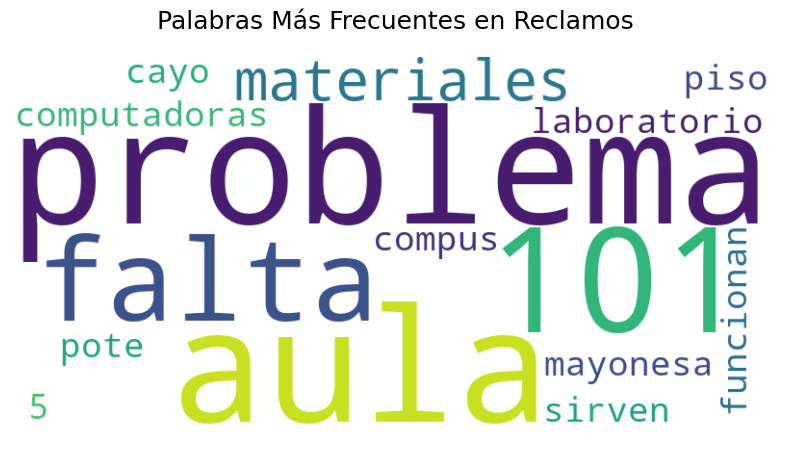
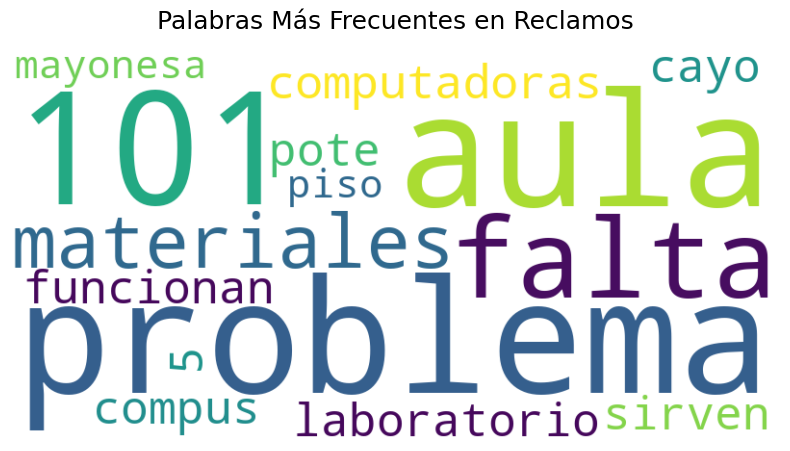
Add filtering functionality for claims by department and enhance UI in claims management templates

diff --git a/TrabajoPractico_3/proyecto_1/templates/mis_reclamos.html b/TrabajoPractico_3/proyecto_1/templates/mis_reclamos.html
@@ -1,41 +1,57 @@
 {% extends 'base.html' %}
 {% block title %}Mis Reclamos{% endblock %}
 {% block content %}
-    <div class="bg-white p-8 rounded-lg shadow-md w-full max-w-2xl mx-auto">
-        <h1 class="text-2xl font-bold mb-4">Mis Reclamos</h1>
+    <div class="bg-gray-50 p-8 rounded-xl shadow-lg w-full max-w-3xl mx-auto transition-all duration-300">
+        <h1 class="text-3xl font-bold text-gray-800 mb-6">Mis Reclamos</h1>
 
         <!-- Sección de Reclamos Creados -->
-        <h2 class="text-xl font-semibold mt-6 mb-2">Reclamos Creados</h2>
+        <h2 class="text-2xl font-semibold text-gray-700 mt-8 mb-4">Reclamos Creados</h2>
         {% if reclamos %}
             <ul class="space-y-4">
                 {% for reclamo in reclamos %}
-                    <li class="border p-4 rounded">
-                        <p><strong>Reclamo:</strong> {{ reclamo.contenido }}</p>
-                        <p><strong>Fecha:</strong> {{ reclamo.timestamp }}</p>
-                        <p><strong>Estado:</strong> {{ reclamo.estado }}</p>
-                        <p><strong>Departamento:</strong> {{ reclamo.departamento_id }}</p>
+                    <li class="border-l-4 border-blue-400 bg-white p-6 rounded-lg shadow-sm hover:shadow-md transition-shadow duration-200">
+                        <p><strong class="text-gray-800">Reclamo:</strong> {{ reclamo.contenido }}</p>
+                        <p><strong class="text-gray-800">Fecha:</strong> {{ reclamo.timestamp.strftime('%d/%m/%Y') }}</p>
+                        <p><strong class="text-gray-800">Estado:</strong> 
+                            <span class="inline-block px-2 py-1 text-sm rounded-full 
+                                {% if reclamo.estado == 'PENDIENTE' %}bg-yellow-100 text-yellow-800 px-3 py-1 rounded-full text-sm font-semibold mb-2
+                                {% elif reclamo.estado == 'EN_PROCESO' %}bg-blue-100 text-blue-800 px-3 py-1 rounded-full text-sm font-semibold mb-2
+                                {% elif reclamo.estado == 'RESUELTO' %}bg-green-100 text-green-800 px-3 py-1 rounded-full text-sm font-semibold mb-2
+                                {% else %}bg-gray-100 text-gray-800{% endif %}">
+                                {{ reclamo.estado }}
+                            </span>
+                        </p>
+                        <p><strong class="text-gray-800">Departamento:</strong> {{ reclamo.departamento_id }}</p>
                     </li>
                 {% endfor %}
             </ul>
         {% else %}
-            <p>No tienes reclamos creados.</p>
+            <p class="text-gray-600 italic">No tienes reclamos creados.</p>
         {% endif %}
 
         <!-- Sección de Reclamos Adheridos -->
-        <h2 class="text-xl font-semibold mt-6 mb-2">Reclamos Adheridos</h2>
+        <h2 class="text-2xl font-semibold text-gray-700 mt-8 mb-4">Reclamos Adheridos</h2>
         {% if reclamos_adheridos %}
             <ul class="space-y-4">
                 {% for reclamo in reclamos_adheridos %}
-                    <li class="border p-4 rounded">
-                        <p><strong>Reclamo:</strong> {{ reclamo.contenido }}</p>
-                        <p><strong>Fecha:</strong> {{ reclamo.timestamp }}</p>
-                        <p><strong>Estado:</strong> {{ reclamo.estado }}</p>
-                        <p><strong>Departamento:</strong> {{ reclamo.departamento_id }}</p>
+                    <li class="border-l-4 border-indigo-400 bg-white p-6 rounded-lg shadow-sm hover:shadow-md transition-shadow duration-200">
+                        <p><strong class="text-gray-800">Reclamo:</strong> {{ reclamo.contenido }}</p>
+                        <p><strong class="text-gray-800">Fecha:</strong> {{ reclamo.timestamp.strftime('%d/%m/%Y') }}</p>
+                        <p><strong class="text-gray-800">Estado:</strong> 
+                            <span class="inline-block px-2 py-1 text-sm rounded-full 
+                                {% if reclamo.estado == 'PENDIENTE' %}bg-yellow-100 text-yellow-800 px-3 py-1 rounded-full text-sm font-semibold mb-2
+                                {% elif reclamo.estado == 'EN_PROCESO' %}bg-blue-100 text-blue-800 px-3 py-1 rounded-full text-sm font-semibold mb-2
+                                {% elif reclamo.estado == 'RESUELTO' %}bg-green-100 text-green-800 px-3 py-1 rounded-full text-sm font-semibold mb-2
+                                {% else %}bg-gray-100 text-gray-800{% endif %}">
+                                {{ reclamo.estado }}
+                            </span>
+                        </p>
+                        <p><strong class="text-gray-800">Departamento:</strong> {{ reclamo.departamento_id }}</p>
                     </li>
                 {% endfor %}
             </ul>
         {% else %}
-            <p>No tienes reclamos adheridos.</p>
+            <p class="text-gray-600 italic">No tienes reclamos adheridos.</p>
         {% endif %}
     </div>
 {% endblock %}

diff --git a/TrabajoPractico_3/proyecto_1/templates/todos_los_reclamos.html b/TrabajoPractico_3/proyecto_1/templates/todos_los_reclamos.html
@@ -1,21 +1,46 @@
 {% extends 'base.html' %}
 {% block title %}Todos los Reclamos{% endblock %}
 {% block content %}
-    <div class="bg-white p-8 rounded-lg shadow-md w-full max-w-2xl mx-auto">
-        <h1 class="text-2xl font-bold mb-4">Todos los Reclamos</h1>
+    <div class="bg-gray-50 p-8 rounded-xl shadow-lg w-full max-w-3xl mx-auto transition-all duration-300">
+        <form method="POST" action="{{ url_for('todos_los_reclamos') }}" class="mb-8">
+            <label for="departamento" class="block text-sm font-semibold text-gray-700 mb-2">
+                Seleccionar departamento
+            </label>
+            <select name="departamento" id="departamento"
+                    class="block w-full px-4 py-2 text-sm border border-gray-300 rounded-lg bg-white focus:outline-none focus:ring-2 focus:ring-blue-400 focus:border-blue-400 transition duration-200">
+                <option value="" {% if departamento_seleccionado == '' %}selected{% endif %}>Todos</option>
+                <option value="1" {% if departamento_seleccionado == '1' %}selected{% endif %}>Maestranza</option>
+                <option value="2" {% if departamento_seleccionado == '2' %}selected{% endif %}>Soporte Informático</option>
+                <option value="3" {% if departamento_seleccionado == '3' %}selected{% endif %}>Secretaría Técnica</option>
+            </select>
+            <button type="submit"
+                    class="mt-4 px-6 py-2 bg-blue-500 text-white text-sm font-medium rounded-lg hover:bg-blue-600 focus:outline-none focus:ring-2 focus:ring-blue-400 transition duration-200">
+                Filtrar reclamos
+            </button>
+        </form>
+
+        <h1 class="text-3xl font-bold text-gray-800 mb-6">Todos los Reclamos</h1>
         {% if reclamos %}
             <ul class="space-y-4">
                 {% for reclamo in reclamos %}
-                    <li class="border p-4 rounded">
-                        <p><strong>Reclamo:</strong> {{ reclamo.contenido }}</p>
-                        <p><strong>Fecha:</strong> {{ reclamo.timestamp }}</p>
-                        <p><strong>Estado:</strong> {{ reclamo.estado }}</p>
-                        <p><strong>Departamento:</strong> {{ reclamo.departamento_id }}</p>
+                    <li class="border-l-4 border-blue-400 bg-white p-6 rounded-lg shadow-sm hover:shadow-md transition-shadow duration-200">
+                        <p><strong class="text-gray-800">Reclamo:</strong> {{ reclamo.contenido }}</p>
+                        <p><strong class="text-gray-800">Fecha:</strong> {{ reclamo.timestamp.strftime('%d/%m/%Y') }}</p>
+                        <p><strong class="text-gray-800">Estado:</strong> 
+                            <span class="inline-block px-2 py-1 text-sm rounded-full 
+                                {% if reclamo.estado == 'PENDIENTE' %}bg-yellow-100 text-yellow-800 px-3 py-1 rounded-full text-sm font-semibold mb-2
+                                {% elif reclamo.estado == 'EN_PROCESO' %}bg-blue-200 text-blue-900
+                                {% elif reclamo.estado == 'RESUELTO' %}bg-green-200 text-green-900
+                                {% else %}bg-gray-100 text-gray-800{% endif %}">
+                                {{ reclamo.estado }}
+                            </span>
+                        </p>
+                        <p><strong class="text-gray-800">Departamento:</strong> {{ reclamo.departamento_id }}</p>
                     </li>
                 {% endfor %}
             </ul>
         {% else %}
-            <p>No hay reclamos registrados en el sistema.</p>
+            <p class="text-gray-600 italic">No hay reclamos registrados en el sistema.</p>
         {% endif %}
     </div>
 {% endblock %}

diff --git a/TrabajoPractico_3/proyecto_1/templates/manejar_reclamos.html b/TrabajoPractico_3/proyecto_1/templates/manejar_reclamos.html
@@ -52,7 +52,7 @@
               <input type="hidden" name="id_reclamo" value="{{ reclamo.id }}">
               <select name="estado" class="block w-full px-3 py-2 text-sm border border-gray-300 rounded-md focus:outline-none focus:ring-blue-500 focus:border-blue-500">
                 <option value="INVALIDO" {% if reclamo.estado == 'INVALIDO' %}selected{% endif %}>Inválido</option>
-                <option value="PENDIENTE" {% if reclamo.estado == 'PENDIENTE' %}selected{% endif %}>Pendiente</option>
+                <option class='bg-yellow-100' value="PENDIENTE" {% if reclamo.estado == 'PENDIENTE' %}selected{% endif %}>Pendiente</option>
                 <option value="EN_PROCESO" {% if reclamo.estado == 'EN_PROCESO' %}selected{% endif %}>En Progreso</option>
                 <option value="RESUELTO" {% if reclamo.estado == 'RESUELTO' %}selected{% endif %}>Resuelto</option>
               </select>

diff --git a/TrabajoPractico_3/proyecto_1/templates/base_admin.html b/TrabajoPractico_3/proyecto_1/templates/base_admin.html
@@ -5,6 +5,7 @@
     <meta name="viewport" content="width=device-width, initial-scale=1.0">
     <title>{% block title %}{% endblock %}</title>
     <script src="https://cdn.tailwindcss.com"></script>
+    <script src="https://cdn.jsdelivr.net/npm/alpinejs@3.x.x/dist/cdn.min.js" defer></script>
 </head>
 <body class="bg-gray-100 min-h-screen">
     <!-- Barra de navegación -->

diff --git a/TrabajoPractico_3/proyecto_1/server.py b/TrabajoPractico_3/proyecto_1/server.py
@@ -144,10 +144,21 @@ def mis_reclamos():
     reclamos_adheridos = usuario.obtener_reclamos_adheridos()
     return render_template('mis_reclamos.html', reclamos=[r.to_dict() for r in reclamos], reclamos_adheridos=[r.to_dict() for r in reclamos_adheridos], active_page='mis_reclamos')
 
-@app.route('/todos_los_reclamos')
+@app.route('/todos_los_reclamos', methods=['GET', 'POST'])
 @gestor_login.solo_usuarios_no_admin
 def todos_los_reclamos():
-    reclamos = gestor_reclamo.obtener_todos_los_reclamos()
+    if request.method == 'POST':
+        departamento_seleccionado = request.form.get('departamento')
+
+        if departamento_seleccionado is None or departamento_seleccionado == '':
+            pass
+
+        else:
+            reclamos = gestor_reclamo.obtener_reclamos_por_estado(Estado.PENDIENTE)
+            reclamos = [r for r in reclamos if r.departamento_id == int(departamento_seleccionado)]
+            return render_template('todos_los_reclamos.html', reclamos=[r.to_dict() for r in reclamos], active_page='todos_los_reclamos', departamento_seleccionado=departamento_seleccionado)
+
+    reclamos = gestor_reclamo.obtener_reclamos_por_estado(Estado.PENDIENTE)
     return render_template('todos_los_reclamos.html', reclamos=[r.to_dict() for r in reclamos], active_page='todos_los_reclamos')
 
 

diff --git a/TrabajoPractico_3/proyecto_1/modules/gestores/gestor_reclamo.py b/TrabajoPractico_3/proyecto_1/modules/gestores/gestor_reclamo.py
@@ -56,6 +56,16 @@ class GestorDeReclamo:
         :return: Lista de instancias de ReclamoDominio.
         """
         return self.reclamo_repositorio.obtener_todos_los_registros()
+    
+    def obtener_reclamos_por_estado(self, estado: Estado) -> List[ReclamoDominio]:
+        """
+        Obtiene todos los reclamos que coinciden con un estado específico.
+        :param estado: Estado por el cual filtrar los reclamos.
+        :return: Lista de instancias de ReclamoDominio.
+        """
+        return self.reclamo_repositorio.obtener_registros_por_filtro('estado', estado)
+    
+
 
     def obtener_reclamo_por_id(self, reclamo_id: int) -> Optional[ReclamoDominio]:
         """
